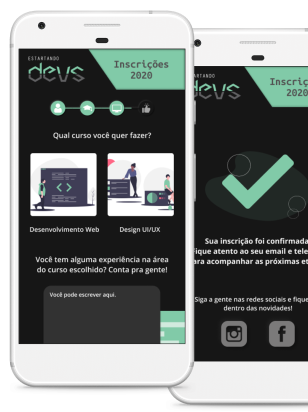
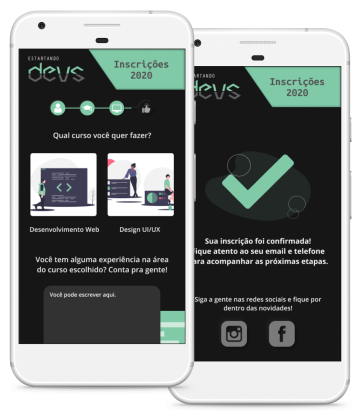
Fix: Schedule layout

diff --git a/src/components/modules/Schedule/ScheduleStyled.tsx b/src/components/modules/Schedule/ScheduleStyled.tsx
@@ -9,7 +9,6 @@ interface IScheduleContainer {
 export const ScheduleContainer = styled.div<IScheduleContainer>`
   width: 100%;
   height: 100%;
-  min-height: 100vh;
   display: flex;
   flex-direction: column;
   align-items: center;
@@ -21,10 +20,11 @@ export const ScheduleContainer = styled.div<IScheduleContainer>`
 export const ScheduleContainerHeader = styled.div`
   display: flex;
   width: 100%;
+  overflow: hidden;
   justify-content: space-between;
   padding: 170px 0 70px 12px;
   ${media.greaterThan("medium")`
-    justify-content: space-evenly;
+    justify-content: center;
     margin-bottom: 170px;
   `}
 `;
@@ -42,8 +42,20 @@ export const InformationAside = styled.div`
   `}
 
   ${media.between("medium", "large")`
-    padding-right: 28vw;
+    /* padding-right: 28vw; */
   `}
+`;
+
+export const Image = styled.img`
+  margin: 0 20px;
+  width: auto;
+  height: 350px;
+  ${media.lessThan("medium")`
+    margin: 0 -50px 0 20px;
+    height: auto;
+    width: 50%;
+    min-width: 200px;
+  `};
 `;
 
 export const ScheduleTitle = styled.h2`
@@ -78,7 +90,7 @@ export const ScheduleDescription = styled.p`
 
   ${media.greaterThan("medium")`
     font-size: 31px;
-    margin-bottom: 24px;
+    margin:16px 0 36px;
     padding-left: 0;
   `}
 `;
@@ -87,9 +99,9 @@ export const ModalText = styled.p`
   ${media.lessThan("medium")`
     /* display: none; */
   `}
-  font-family: Ubuntu Mono;
+  font-family: Ubuntu;
   font-size: 20px;
-  line-height: 23px;
+  line-height: 26px;
   color: #d3d3d3;
   margin-bottom: 24px;
   max-width: 800px;
@@ -99,9 +111,9 @@ export const InformationText = styled.p`
   ${media.lessThan("medium")`
     display: none;
   `}
-  font-family: Ubuntu Mono;
+  font-family: Ubuntu;
   font-size: 20px;
-  line-height: 23px;
+  line-height: 26px;
   color: #d3d3d3;
   margin-bottom: 24px;
   max-width: 800px;
@@ -126,16 +138,4 @@ export const SubscriptionLink = styled.span`
   text-decoration: underline;
   padding-left: 8px;
   `}
-`;
-
-export const Image = styled.img`
-  width: 40%;
-  height: auto;
-  margin-left: 20px;
-  ${media.greaterThan("medium")`
-    position: absolute;
-    right: 0;
-    width: auto;
-    height: 350px;
-  `};
 `;
